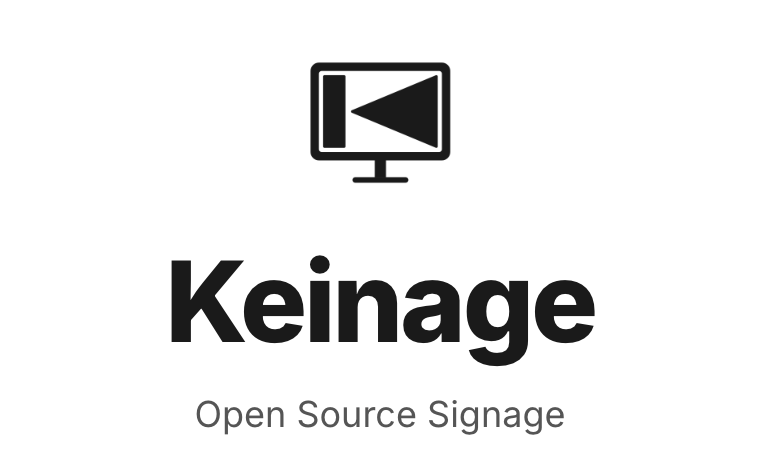
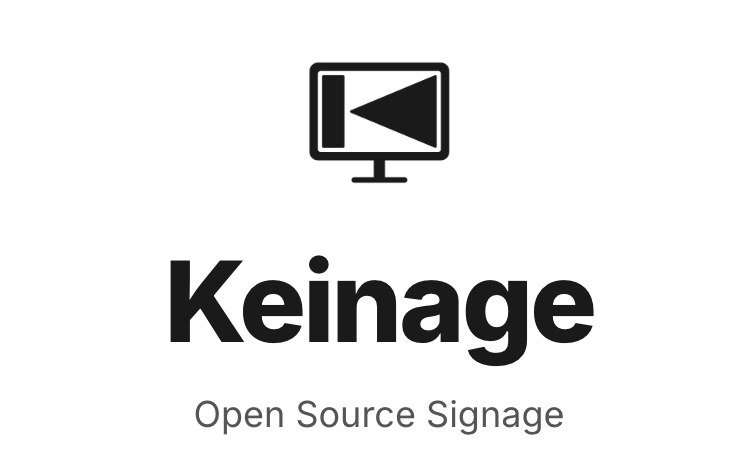
Small updates of README

diff --git a/README.md b/README.md
@@ -1,17 +1,15 @@
 # Keinage
 
-<div style="text-align: center">
-<img src="./screenshots/keinage.png" style="max-width: 600px">
-
+<p align="center">
+<img src="./screenshots/keinage.png" width="400">
+<p>
+<p align="center">
 **Web上で簡単にカスタマイズ可能な掲示板、案内板、デジタルサイネージ**
-
-病院の待合室、スーパーマーケット、飲食店など、あらゆる場所で情報を掲示するためのフリーツール (OSS) です。  
-管理画面からコンテンツを登録するだけで、表示用の画面がリアルタイムに更新されます。
-
-</div>
-
+</p>
 
 ## 特徴
+病院の待合室、スーパーマーケット、飲食店など、あらゆる場所で情報を掲示するためのフリーツール (OSS) です。  
+管理画面からコンテンツを登録するだけで、表示用の画面がリアルタイムに更新されます。
 
 - **テンプレートベース** — 用途に合わせて複数のデザインテンプレートから選択可能
 - **リアルタイム更新** — 管理画面や外部 API からの変更が即座にボードへ反映
